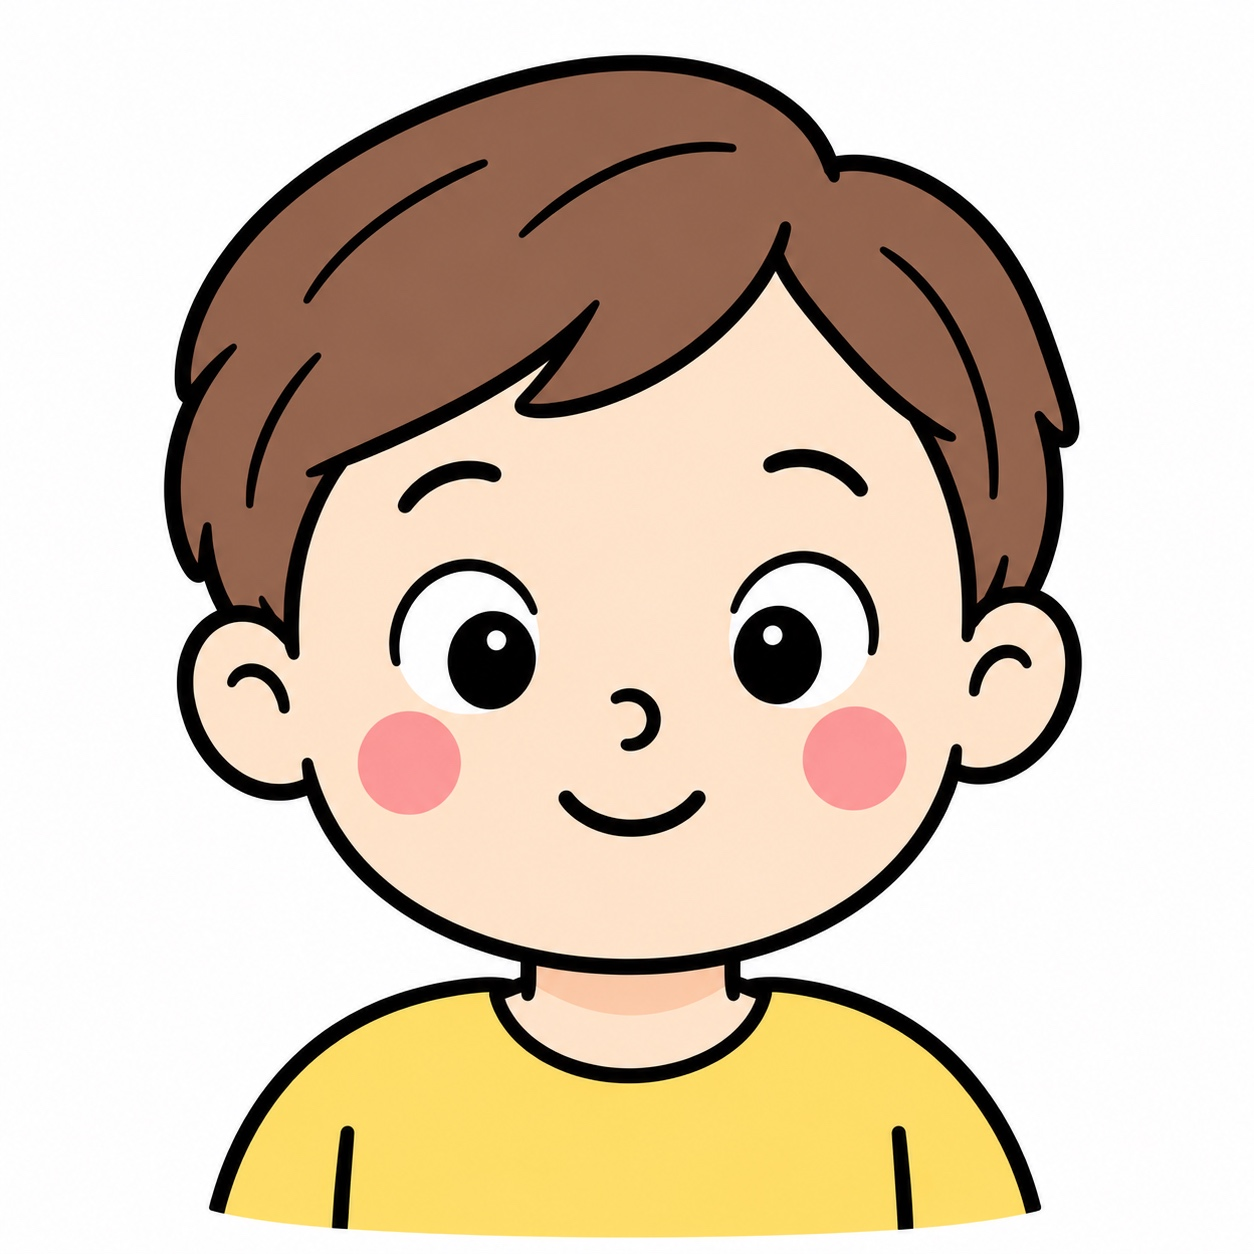
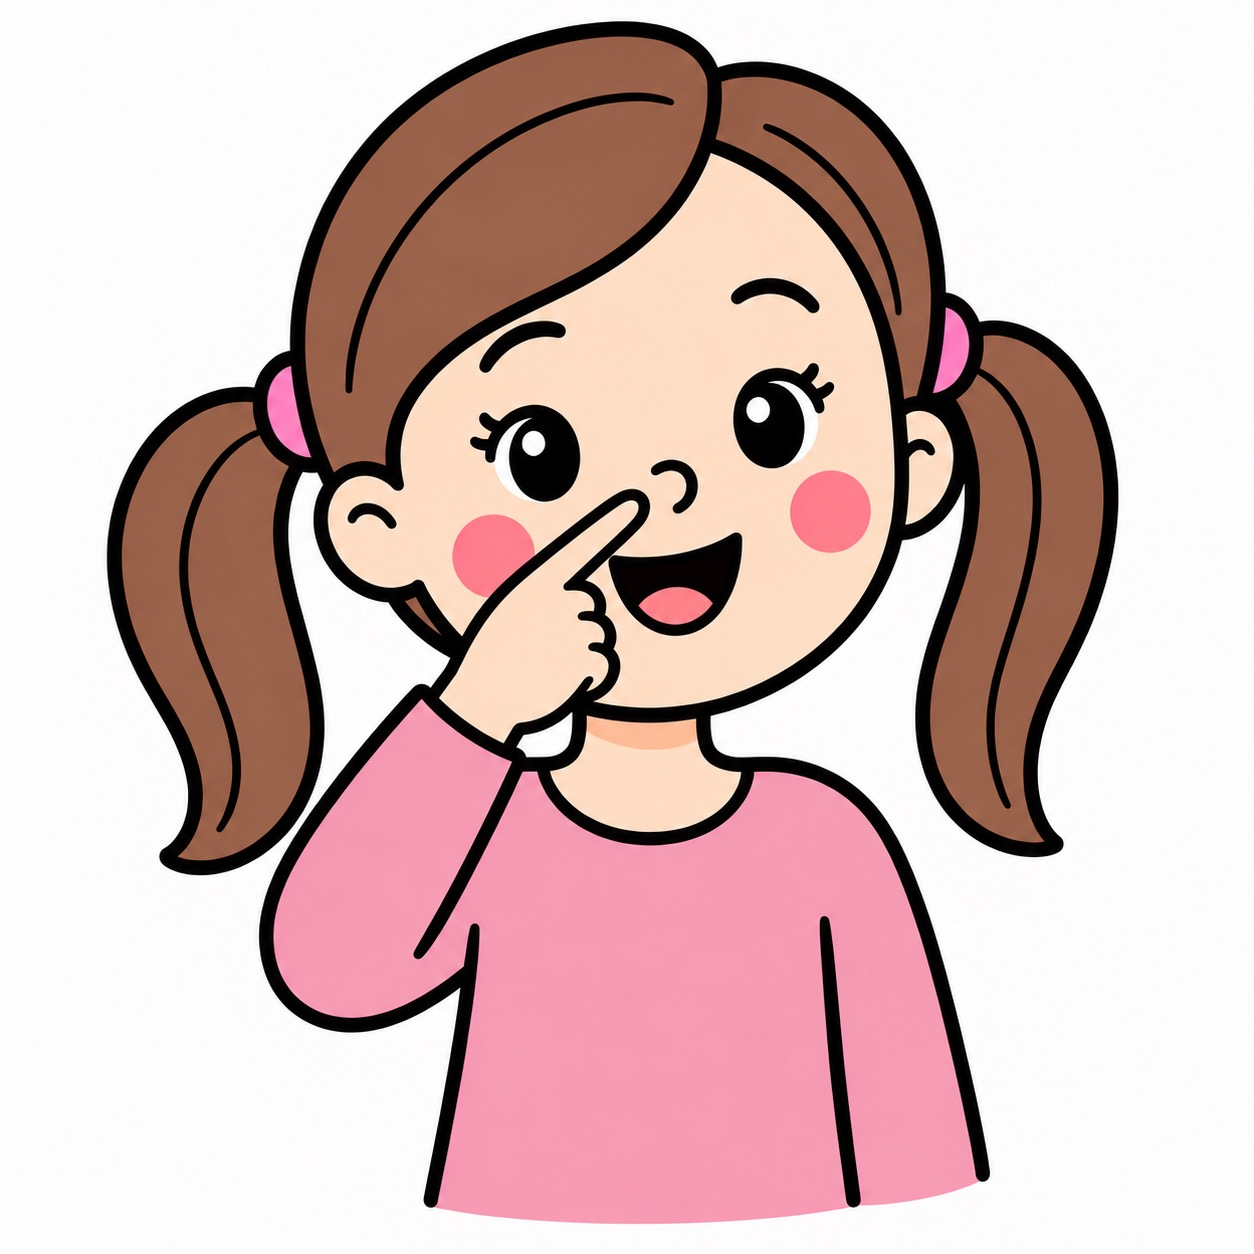
Correct gender-specific body card artwork

diff --git a/src/components/pecs/PecsCard.tsx b/src/components/pecs/PecsCard.tsx
@@ -13,6 +13,8 @@ import {
 } from "@/components/ui/dropdown-menu";
 import { translateCardLabel } from "@/lib/language";
 
+const genderSpecificBodyCards = new Set(["l1-50", "l2-54", "l2-56", "l2-58"]);
+
 interface PecsCardProps {
   card: Card;
   showWord: boolean;
@@ -50,7 +52,9 @@ export const PecsCard = ({
       ? girlCardImages[card.id]
       : boyCardImages[card.id];
   const displayedImage =
-    sharedCardImages[card.id] || genderImage || existingImage;
+    genderSpecificBodyCards.has(card.id)
+      ? genderImage || sharedCardImages[card.id] || existingImage
+      : sharedCardImages[card.id] || genderImage || existingImage;
 
   const handleDragStart = (e: React.DragEvent) => {
     e.dataTransfer.setData("card", JSON.stringify({ ...card, text: displayedLabel }));
